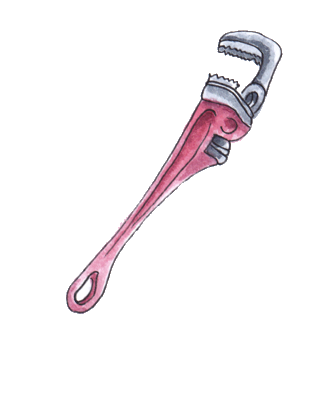
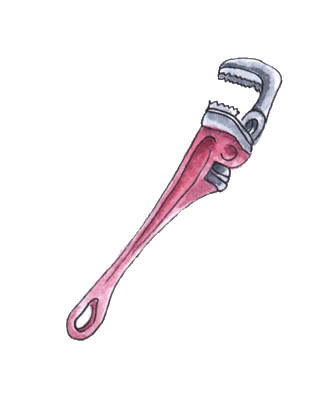
added new weapons as previews and new random location basement

Changed region(s): [[0.1796, 0.058, 0.8683, 0.8406]]

diff --git a/js/props.js b/js/props.js
@@ -60,7 +60,7 @@ var paths = new Array(mapSize.width);
 for (var i = 0; i < paths.length; i += 1) { paths[i] = new Array(mapSize.height); }
 
 var buildingTypes = {
-  'house': ['house', 'barn', 'cottage', 'old-villa', 'farm-house', 'town-house'],
+  'house': ['house', 'barn', 'cottage', 'old-villa', 'farm-house', 'town-house', 'basement'],
   'car': ['car-1', 'car-2'],
   'farm': ['field', 'compost', 'scarecrow'],
   'tree': [ 'small-tree', 'big-tree'],
@@ -81,6 +81,7 @@ var buildingProps = {
   'outhouse': { locked: 0, spawn: 1, items: ['exodus', 'acorn', 'hawthorn', 'rosehip', 'straw-wheet'] },
   'pump': { locked: 0, spawn: 1, items: ['branch', 'physalis', 'reef', 'spanner'] },
   'house': { locked: 2, spawn: 3, items: ['bread-1', 'wine', 'snack-1', 'snack-2', 'energy-pills', 'knife', 'tape', 'drink-2', 'drink-5', 'exodus', 'cloth'] },
+  'basement': { locked: 0, spawn: 3, items: ['axe', 'baseball-bat', 'wine', 'tape', 'cloth', 'hacksaw', 'bones', 'spanner', 'books'] },
   'farm-house': { locked: 2, spawn: 3, items: ['bread-2', 'wine', 'pumpkin', 'carrot', 'knife', 'pepper', 'tomato', 'exodus'] },
   'town-house': { locked: 3, spawn: 3, items: ['bread-2', 'wine', 'snack-1', 'snack-2', 'energy-pills', 'knife', 'tape', 'drink-2', 'drink-5', 'exodus', 'cloth'] },
   'car-1': { locked: 2, spawn: 2, items: ['snack-1', 'snack-2', 'energy-pills', 'drink-3', 'drink-4', 'tape', 'spanner', 'cloth'] },
@@ -104,15 +105,15 @@ var buildingProps = {
   'train-wreck-1': { locked: 0, spawn: 3, items: ['snack-1', 'snack-2', 'drink-2', 'drink-5', 'wine'] },
   'market': { locked: 2, spawn: 3, items: ['bread-1', 'bread-2', 'wine', 'snack-1', 'snack-2', 'energy-pills', 'knife', 'tape', 'drink-3', 'drink-4', 'exodus'] },
   'gas-station': { locked: 2, spawn: 3, items: ['bread-1', 'bread-2', 'wine', 'snack-1', 'snack-2', 'energy-pills', 'knife', 'tape', 'drink-2', 'drink-1', 'exodus'] },
-  'tool-shed': { locked: 2, spawn: 2, items: ['cloth', 'claw', 'fail', 'hacksaw', 'exodus', 'knife', 'mallet', 'pincers', 'spanner', 'tape'] },
-  'garage': { locked: 3, spawn: 3, items: ['cloth', 'claw', 'fail', 'hacksaw', 'exodus', 'knife', 'mallet', 'pincers', 'spanner', 'tape'] },
+  'tool-shed': { locked: 2, spawn: 2, items: ['cloth', 'claw', 'fail', 'hacksaw', 'exodus', 'knife', 'mallet', 'pincers', 'wrench', 'tape'] },
+  'garage': { locked: 3, spawn: 3, items: ['cloth', 'claw', 'fail', 'hacksaw', 'exodus', 'knife', 'mallet', 'pincers', 'wrench', 'tape'] },
   'well': { locked: 0, spawn: 1, items: ['rosehip', 'bones', 'mushroom-1', 'stone', 'froggy']},
   'jetty': { locked: 0, spawn: 1, items: ['reef', 'rosehip', 'stone', 'duck', 'froggy'], amount: 2 },
   'seating': { locked: 0, spawn: 1, items: ['drink-1', 'drink-2', 'snack-1', 'snack-2'] },
   'log-cabine': { locked: 1.4, spawn: 2, items: ['stump', 'straw-wheet', 'branch', 'drink-3', 'drink-4', 'snack-1', 'snack-2'] },
   'cottage': { locked: 2, spawn: 3, items: ['bread-2', 'wine', 'snack-1', 'snack-2', 'knife', 'drink-2', 'drink-5', 'exodus'] },
   'fireplace': { locked: 0, spawn: 0, items: [] },
-  'human-corpse-1': { locked: 0, spawn: 3, items: ['wine', 'snack-1', 'snack-2', 'knife', 'drink-2', 'drink-5', 'exodus', 'cloth', 'wooden-club'] },
+  'human-corpse-1': { locked: 0, spawn: 3, items: ['wine', 'snack-1', 'snack-2', 'knife', 'drink-2', 'drink-5', 'exodus', 'cloth', 'wooden-club', 'baseball-bat'] },
 };
 
 var buildingActions = {
@@ -168,11 +169,9 @@ var craftingRecipes = {
 };
 
 var weaponProps = {
-  /*'axe': [0, 8],
-  'baseball-bat': [25, 4],
-  'hammer': [0, 5],
-  'saw': [0, 1],
-  'wrench': [0, 7]*/
+  'baseball-bat': {attack: 10, defense: 2, durability: 3, preview: true},
+  'wrench': {attack: 14, defense: 2, durability: 3, preview: true},
+  'axe': {attack: 12, defense: 6, durability: 3, preview: true},
   'improvised-axe': {attack: 8, defense: 4, durability: 3},
   'wooden-club': {attack: 6, defense: 3, durability: 3}
 };
@@ -238,8 +237,11 @@ var items = {
   'tape': ['craft', 0, 0, 0, 1, 0],
   'tomato': ['eat', 4, 8, 3],
   'wine': ['drink', 5, 35, 20],
-  'improvised-axe': ['extra', 0, 0, 0, 8, 4],
-  'wooden-club': ['extra', 0, 0, 0, 6, 3]
+  'improvised-axe': ['extra', 0, 0, 0, weaponProps['improvised-axe'].attack, weaponProps['improvised-axe'].defense],
+  'wooden-club': ['extra', 0, 0, 0, weaponProps['wooden-club'].attack, weaponProps['wooden-club'].defense],
+  'wrench': ['extra', 0, 0, 0, weaponProps['wrench'].attack, weaponProps['wrench'].defense],
+  'baseball-bat': ['extra', 0, 0, 0, weaponProps['baseball-bat'].attack, weaponProps['baseball-bat'].defense],
+  'axe': ['extra', 0, 0, 0, weaponProps['axe'].attack, weaponProps['axe'].defense]
 };
 
 const actionTextMapping = {
@@ -725,7 +727,7 @@ export default {
     return lootItemList;
   },
 
-  setupBuilding: function(x, y, buildingNamesArray, forceItems) {
+  setupBuilding: function(x, y, buildingNamesArray, forceItems, forceInfested) {
     buildingNamesArray.forEach(buildingName => {
       const props = buildingProps[buildingName];
       const lootItemList = forceItems ? this.forceLootItemList(forceItems, props.amount) : this.createLootItemList(props.spawn, JSON.parse(JSON.stringify(props.items)), 9, props.amount);
@@ -746,7 +748,7 @@ export default {
         items: lootItemList,
         locked: locked,
         looted: false,
-        infested: infested,
+        infested: forceInfested || infested,
         zednearby: null,
         active: true,
         inreach: false,
@@ -892,9 +894,7 @@ export default {
       type: undefined,
       group: 'weapon',
       text: false,
-      actions: [{
-        id: 'equip', label: 'Equip'
-      }],
+      actions: props.preview ? [{ id: 'got-it', label: 'Got it!' }] : [{ id: 'equip', label: 'Equip' }],
       items: [],
       locked: undefined,
       looted: false,
@@ -907,6 +907,7 @@ export default {
       defense: props.defense,
       durability: props.durability,
       dead: undefined,
+      preview: props.preview,
       disabled: false,
       removed: false
     });

diff --git a/js/cards-markup.js b/js/cards-markup.js
@@ -20,7 +20,7 @@ export default {
     let object = Props.getObject(id);
     let cardMarkupExtension;
 
-    let cardMarkupPre = '<div id="' + id + '" class="card ' + (object.locked ? 'locked ' : '') + (object.dead ? 'dead ' : '') + ' ' + object.group + '" style="left: ' + Math.round(object.x * 44.4 - 120) + 'px; top: 600px; transform: scale(0.4);">' +
+    let cardMarkupPre = '<div id="' + id + '" class="card ' + (object.locked ? 'locked ' : '') + (object.dead ? 'dead ' : '') + (object.preview ? 'preview ' : '') + ' ' + object.group + '" style="left: ' + Math.round(object.x * 44.4 - 120) + 'px; top: 600px; transform: scale(0.4);">' +
                           '<div class="inner">';
 
     let cardMarkupBuilding = '<div class="status"><div class="status-locked"></div><div class="status-zombies"></div><div class="status-looted"></div><div class="status-infested"></div></div>' +
@@ -37,7 +37,8 @@ export default {
     let cardMarkupWeapon =   '<div class="attack">' + object.attack + '</div><div class="shield">' + object.defense + '</div>' +
                              '<p class="activity glow is--hidden"></p>' +
                              '<img class="motive" src="./img/weapons/' + object.name + '.png">' +
-                             '<div class="banner"><img src="./img/icons/weapons/' + object.group + '.png"></div>';
+                             '<div class="banner"><img src="./img/icons/weapons/' + object.group + '.png"></div>' +
+                             '<div class="dead"><img src="./img/weapons/preview.png"></div>';
 
     let cardMarkupAnimal =   '<p class="activity glow is--hidden"></p>' +
                              '<img class="motive" src="./img/animals/' + object.name + '.png">' +

diff --git a/js/editor.js b/js/editor.js
@@ -41,7 +41,7 @@ export default {
               Props.setZedAt(squareX, squareY, 1);
             } else if (selectedObject === 'rats') {
               Props.spawnRatsAt(squareX, squareY);
-            } else if (selectedObject === 'improvised-axe' || selectedObject === 'wooden-club') {
+            } else if (selectedObject === 'improvised-axe' || selectedObject === 'axe' || selectedObject === 'wooden-club' || selectedObject === 'baseball-bat' || selectedObject === 'wrench') {
               Props.setupWeapon(squareX, squareY, selectedObject);
             } else if (selectedObject === 'care-package') {
               Props.addToInventory('tomato', 1);

diff --git a/js/cards.js b/js/cards.js
@@ -76,7 +76,7 @@ export default {
         const itemProps = Props.getItem(itemName);
 
         if (itemAmount && leftMouseButton) {
-          if (itemProps[0] === 'extra' && Items.inventoryContains(itemName)) {
+          if (itemProps[0] === 'extra' && (Items.inventoryContains(itemName) || itemName === 'axe' || itemName === 'baseball-bat' || itemName === 'wrench')) {
             // spawn weapon as card to avoid conflicts with existing weapon in inventory
             Props.setupWeapon(Player.getPlayerPosition().x, Player.getPlayerPosition().y, itemName);
           } else if (itemProps[0] === 'extra') {

diff --git a/js/actions.js b/js/actions.js
@@ -141,6 +141,9 @@ export default {
       if (object.type === 'house' && Math.random() < 0.25) {
         Props.setupBuilding(object.x, object.y, ['human-corpse-1']);
       }
+      if ((object.name === 'house' || object.name === 'farm-house') && Math.random() < 0.2) {
+        Props.setupBuilding(object.x, object.y, ['basement'], false, true);
+      }
       for (let i = 0; i < allItems.length; i += 1) {
         window.setTimeout(function(index, item, cardId, energy) {
           allPreviews[index].classList.add('is--hidden');

diff --git a/css/cards.css b/css/cards.css
@@ -72,6 +72,7 @@
   top: 22%;
   display: none;
 }
+.card.preview .dead,
 .card.dead .dead {
   display: block;
 }
